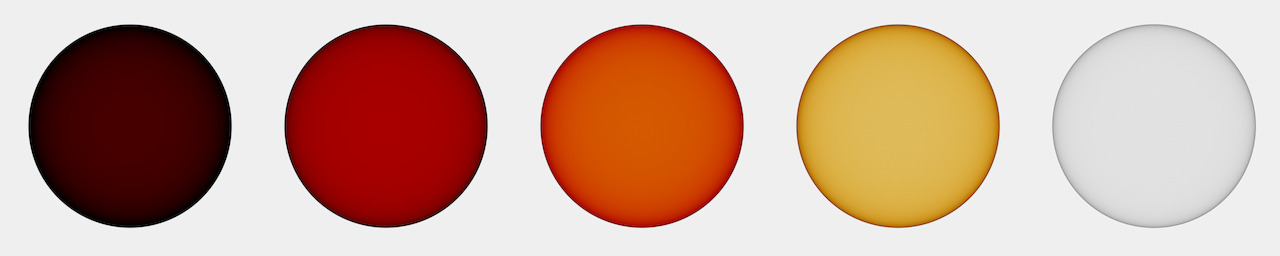
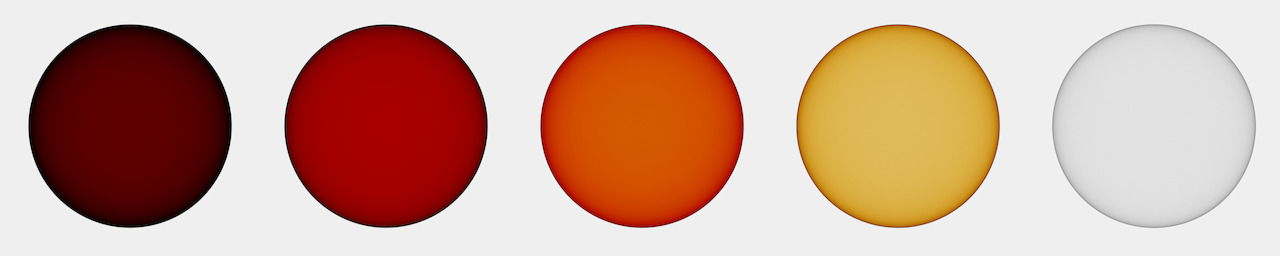
SRAL: Whole model images - missing TIR energy compensation.

Changed region(s): [[0.0312, 0.25, 0.1562, 0.7812], [0.0625, 0.1562, 0.125, 0.2188]]

diff --git a/_drafts/2018-01-10-rendering-layered-materials-smooth-refraction-approximation-layered-model.md b/_drafts/2018-01-10-rendering-layered-materials-smooth-refraction-approximation-layered-model.md
@@ -196,9 +196,7 @@ The complete model for one type of configuration may look like this:
 <img src="../images/SRAL/BlogExplanation_WholeLambert_EM1_512s.jpg" alt="" width="700" /><br/>
 <img src="../images/SRAL/BlogExplanation_WholeLambert_EM7_512s.jpg" alt="" width="700" /><br/>
 <img src="../images/SRAL/BlogExplanation_WholeLambert_EM10_512s.jpg" alt="" width="700" /><br/>
-The whole formula using highly glossy outer layer, ideally white Lambert inner layer and orange medium between them with varying medium thickness under various light settings.
-
- *TODO: apply multi-scattering energy compensation.*
+The whole formula using highly glossy outer layer, ideally white Lambert inner layer and orange medium between them with varying medium thickness under various light settings. Compensation of the missing in-scattered energy due to TIR by omitting the solid angle (de-)compression compensation is applied.
 
 </p>
 

diff --git a/_drafts/2018-01-10-rendering-layered-materials-energy-conserving-BSDF-under-smooth-refractive-interface.md b/_drafts/2018-01-10-rendering-layered-materials-energy-conserving-BSDF-under-smooth-refractive-interface.md
@@ -135,7 +135,7 @@ And that's it, folks! You can see that our original approach, *in which we just 
 
 <p style="text-align: center">
 <img src="../images/SRAL/BlogExplanation_InnerGlossyMedium_SolAngProblem_EM1_512s.jpg" alt="" width="700" /><br/>
-<img src="../images/SRAL/BlogExplanation_InnerGLossyMedium_SolAngComp_EM1_512s.jpg" alt="" width="700" /><br/>
+<img src="../images/SRAL/BlogExplanation_InnerGLossyMedium_SolAngCompress_EM1_512s.jpg" alt="" width="700" /><br/>
 Without and with solid angle compression compensation applied: Glossy inner layer (GGX roughness 0.1) with refracted directions, Fresnel attenuation under orange medium with varying medium thickness under constant lighting.
 
 *TODO: ?more general settings (various roughnesses, without medium)?*
